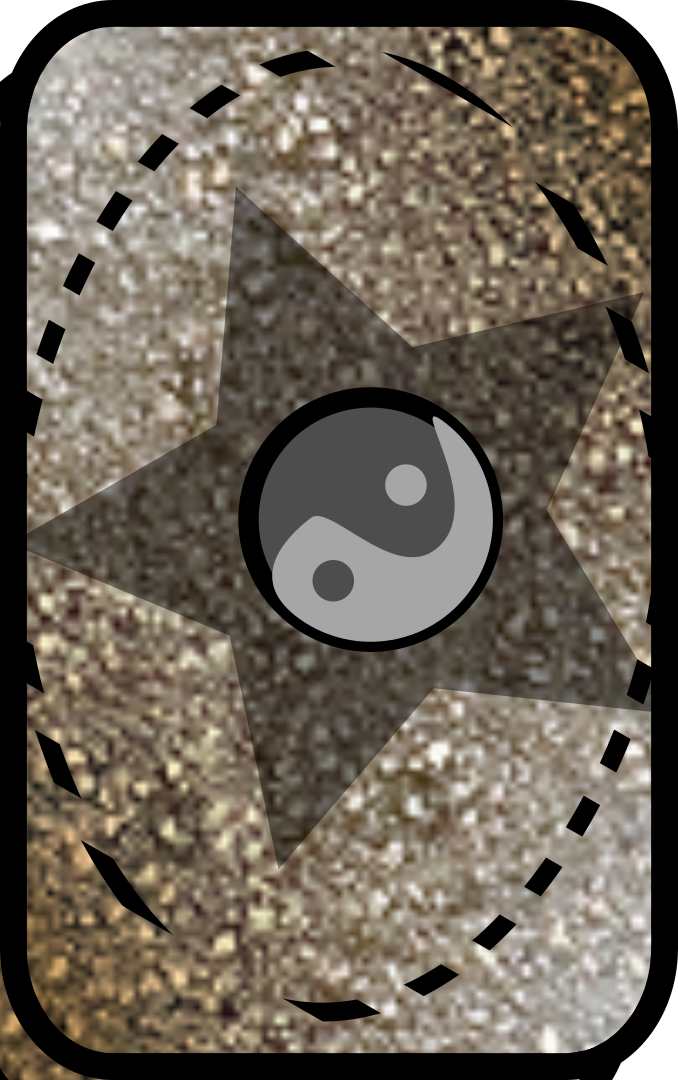
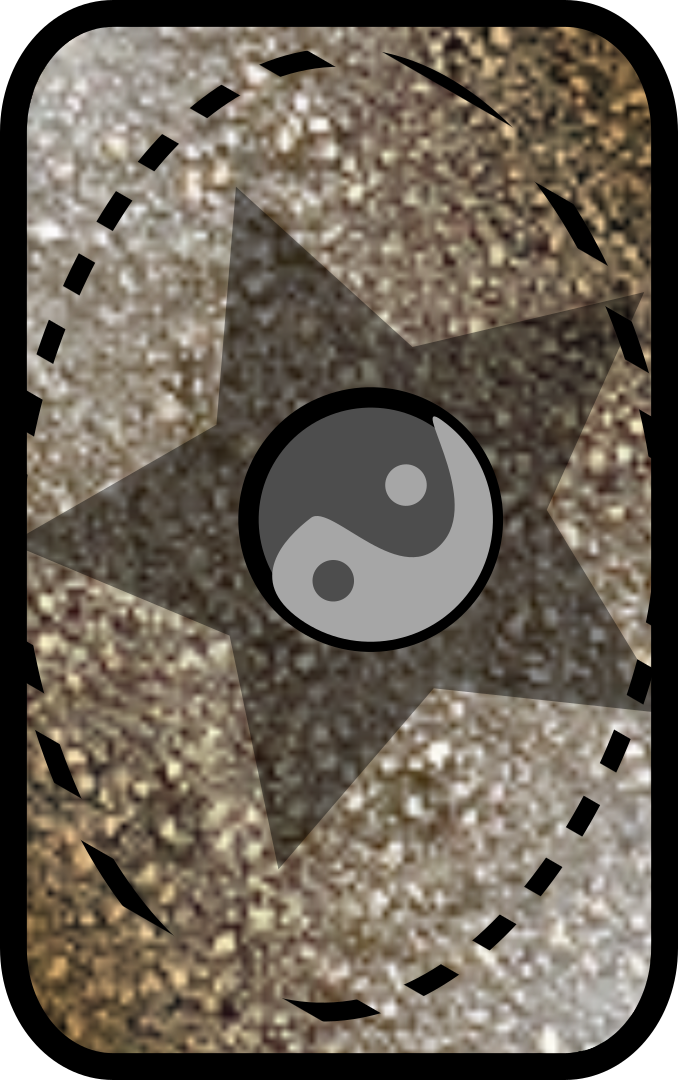
adds card selection menu (still WIP tho e.e)

Changed region(s): [[0.0, 0.8861, 0.1239, 1.0], [0.8673, 0.9778, 0.9292, 1.0], [0.0, 0.0611, 0.031, 0.0917]]

diff --git a/Touhou - The Card Game.py b/Touhou - The Card Game.py
@@ -44,13 +44,17 @@ dummy_surf                   = pygame.image.load('Graphics/dummy_test.png').conv
 title_screen_surf_raw        = pygame.image.load('Graphics/title_screen.png').convert()
 pill_with_highlight_surf_raw = pygame.image.load('Graphics/pill.png').convert_alpha()
 pill_highlight_raw           = pygame.image.load('Graphics/pill_highlight.png').convert_alpha()
-deck_surf                    = pygame.image.load('Graphics/face_down_deck.png').convert_alpha()
+deck_surf_raw                = pygame.image.load('Graphics/face_down_deck.png').convert_alpha()
+black_pilled_surf_raw        = pygame.image.load('Graphics/black_pill.png').convert_alpha()
 # pill_highlight_raw = pygame.image.load('Graphics/pill_highlight_full_opacity.png').convert_alpha()
 
-title_screen_surf                = pygame.transform.scale(surface = title_screen_surf_raw,                size = (user_screen_width, user_screen_height))
-pill_surf                        = pygame.transform.scale(surface = pill_with_highlight_surf_raw,         size = (vw * 20, vh * 13))
-pill_with_highlight_surf         = pygame.transform.scale(surface = pill_with_highlight_surf_raw,         size = (vw * 20, vh * 13))
-pill_highlight                   = pygame.transform.scale(surface = pill_highlight_raw,                   size = (vw * 20, vh * 13))
+title_screen_surf            = pygame.transform.scale(surface = title_screen_surf_raw,                size = (user_screen_width, user_screen_height))
+pill_surf                    = pygame.transform.scale(surface = pill_with_highlight_surf_raw,         size = (vw * 20, vh * 13))
+pill_with_highlight_surf     = pygame.transform.scale(surface = pill_with_highlight_surf_raw,         size = (vw * 20, vh * 13))
+pill_highlight               = pygame.transform.scale(surface = pill_highlight_raw,                   size = (vw * 20, vh * 13))
+deck_surf                    = pygame.transform.scale(surface = deck_surf_raw,                        size = (floor(vh * 18.83333), vh * 30))
+black_pilled_surf            = pygame.transform.scale(surface = black_pilled_surf_raw,                size = (floor(user_screen_width / 2), floor(user_screen_height / 2)))
+
 
 
 
@@ -137,25 +141,16 @@ mouse.add(Mouse())
 
 def collision_sprite(menu_ID):
 
-    # print("mouse.sprite:", mouse.sprite)
-    # print("pills_panel_1:", pills_panel_1)
-    # print("pills_panel_2:", pills_panel_2)
-
     match menu_ID:
         case 1:
-            print("CASE 1")
             if (pygame.sprite.spritecollide(mouse.sprite, pills_panel_1, False)):
-                print("CASE 1 IS TRUE")
                 return True
         
         case 2:
-            print("CASE 2")
             if (pygame.sprite.spritecollide(mouse.sprite, pills_panel_2, False)):
-                print("CASE 2 IS TRUE")
                 return True
             
         case _:
-            print("ERROR")
             return False
 
 
@@ -196,8 +191,16 @@ while(running):
 
         case 3:
             # render text and pill box to choose deck here
-            deck_surf.get_rect(center = (vw * 50, vh * 50))
-            screen.blit(deck_surf)
+
+            black_pill_coords = black_pilled_surf.get_rect(center = (floor(user_screen_width / 2), floor((user_screen_height / 2) + vh * 10)))
+            deck_surf_coords = deck_surf.get_rect(center = (floor(user_screen_width / 2), floor((user_screen_height / 2) + vh * 10)))
+
+            black_pilled_surf.set_alpha(90)
+            screen.blit(black_pilled_surf, black_pill_coords)
+
+            screen.blit(deck_surf, deck_surf_coords)
+
+            
 
         case _:
             pass
